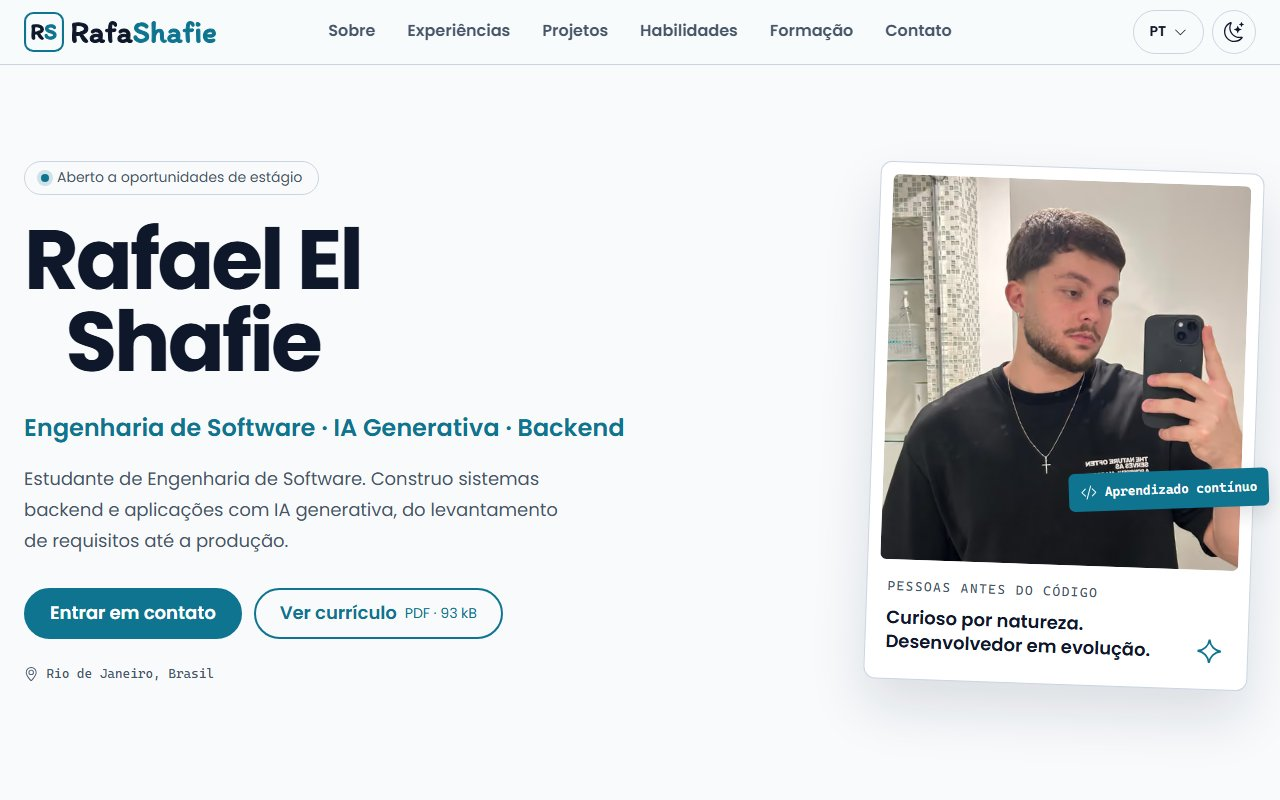
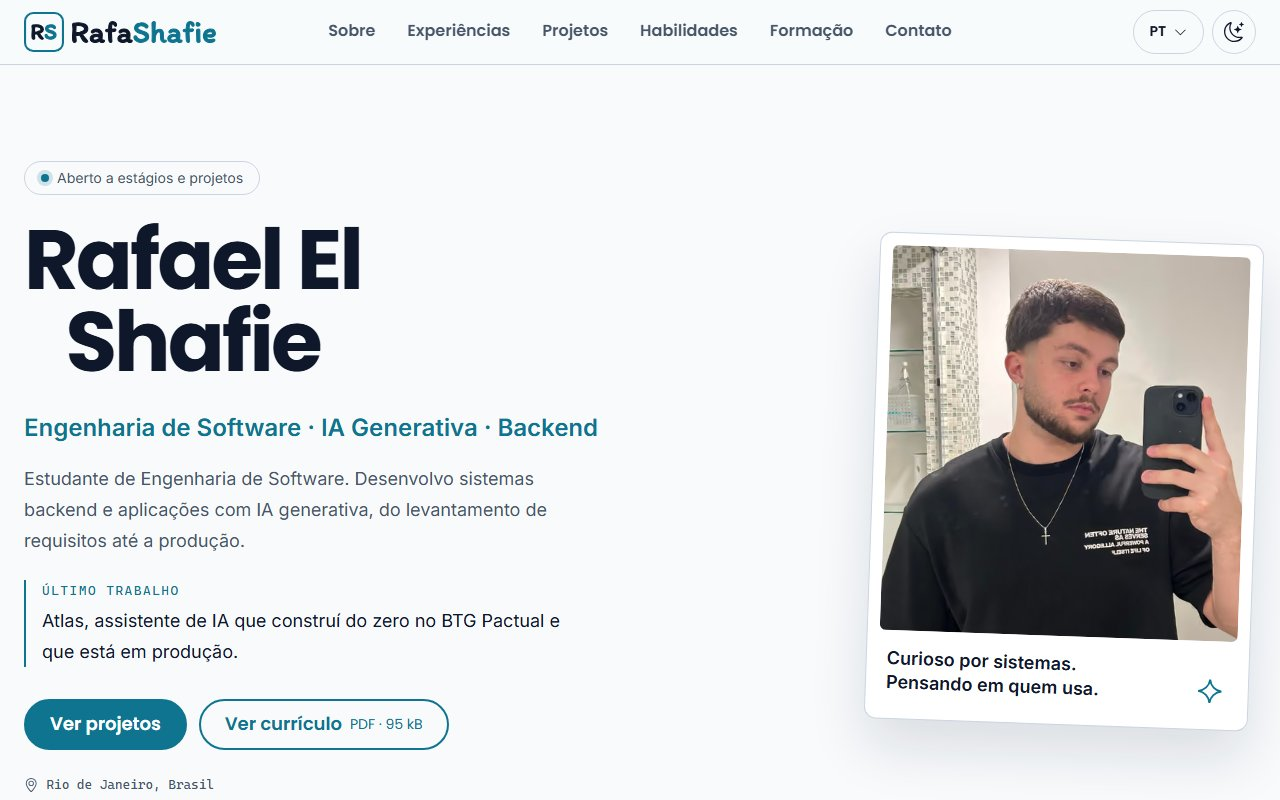
docs(readme): bring the README up to date with phases A to D
Adds what the site offers, the native CSS features and fonts in the stack,
the pages folder in the tree, and decisions on project stages, shareable
dialogs, HTML diagrams, structured data and the 404 page. The progressive
enhancement note matches the new email card, and the screenshots show the
current hero.

diff --git a/README.md b/README.md
@@ -16,6 +16,15 @@ Site pessoal de um estudante de Engenharia de Software focado em **backend e IA 
   <img src="docs/screenshots/mobile-light.jpg" alt="Topo do site no tema claro, celular" width="260" />
 </p>
 
+## O que tem no site
+
+- **Experiências** em acordeão, cada uma com um modal "Explorar a experiência" que conta o problema, as decisões e o que aprendi.
+- **Projetos** com filtros por área (IA, Backend, Dados, Frontend). Os trabalhos principais têm destaque, e cada card mostra o estágio real do projeto.
+- **Modais com resumo no topo** (problema, participação, entrega e resultado) e **diagramas ilustrativos** nos projetos principais.
+- **Link direto para cada modal** (`/#project-atlas`) e links entre a experiência e o projeto correspondente.
+- **Habilidades em abas**, com o contexto em que cada uma foi usada.
+- **Contato:** o cartão de e-mail abre o app de e-mail, e um botão ao lado copia o endereço. O currículo é o do idioma da página.
+
 ## Por que reescrever
 
 O site antigo (HTML e CSS puros, guardado na tag [`v0-legado`](https://github.com/Rafa-Shafie/portfolio/tree/v0-legado)) estava desatualizado e tinha bugs visíveis:
@@ -43,8 +52,9 @@ Os relatórios completos e o método estão em [docs/lighthouse/](docs/lighthous
 
 - **[Astro](https://astro.build/)** com saída estática: zero JavaScript por padrão, um HTML por idioma, content collections e i18n nativos.
 - **TypeScript** nos dicionários e no conteúdo: faltou um campo ou uma tradução, o build quebra.
-- **CSS puro com design tokens**, `<style>` escopado por componente e nenhum framework de CSS.
-- **Scripts pequenos em TS** para menu, idioma, tema, abas, filtros, modais e copiar e-mail. Nada aqui justifica React.
+- **CSS puro com design tokens**, `<style>` escopado por componente e nenhum framework de CSS. Recursos nativos onde eles bastam: `light-dark()`, container queries, `@starting-style` e a View Transitions API.
+- **Fontes self-hosted** pela fonts API do Astro, só o subset latin: Poppins nos títulos e botões, Inter no texto corrido. A marca (RS + RafaShafie) é um SVG gerado a partir da Itim.
+- **Scripts pequenos em TS** para menu, idioma, tema, abas, filtros, modais e e-mail. Nada aqui justifica React.
 - **Playwright + axe + Lighthouse** no GitHub Actions; deploy na **Vercel**, com preview por PR.
 
 ## Como funciona
@@ -75,10 +85,11 @@ flowchart LR
 ```text
 src/
 ├── content/      1 YAML por experiência, projeto e curso, validado por schema
-├── data/         contatos, habilidades, tamanho do CV, regra dos rascunhos
+├── data/         contatos, habilidades, tamanho do CV, regra dos rascunhos, detalhes dos modais
 ├── i18n/         dicionários tipados (pt define o tipo; en e es precisam ter as mesmas chaves)
-├── components/   cabeçalho, seletores de idioma e tema, cartões, modais e seções
-├── layouts/      <head>: SEO, canonical, hreflang, Open Graph por idioma e tema sem flash
+├── components/   cabeçalho, seletores de idioma e tema, cartões, modais, diagramas e seções
+├── layouts/      <head>: SEO, canonical, hreflang, Open Graph, JSON-LD e tema sem flash
+├── pages/        as 3 rotas, a página 404, a imagem Open Graph de cada idioma e o robots.txt
 └── styles/       tokens.css (cores em light-dark()) e global.css
 tests/e2e/        suíte Playwright, que lê os mesmos YAML e dicionários do site
 scripts/          marca em SVG, guarda do CV, Lighthouse com nota mínima, prints deste README
@@ -87,22 +98,26 @@ scripts/          marca em SVG, guarda do CV, Lighthouse com nota mínima, print
 ## Decisões
 
 1. **Conteúdo como dados validados.** Adicionar um projeto é adicionar um YAML. Um campo ou tradução faltando quebra o build, não a produção. Os testes leem os mesmos arquivos, então conteúdo novo não exige mudar teste.
-2. **i18n por rota, gerado no build.** Cada idioma é um HTML próprio, indexável e sem texto trocando depois de carregar, com `hreflang`, canonical e imagem Open Graph por idioma.
-3. **Tema com `light-dark()` e sem flash.** Cada cor é declarada uma vez e o `color-scheme` da raiz escolhe o tema. Sem escolha salva, quem decide é o sistema, mesmo sem JavaScript. Um script síncrono no `<head>` aplica a escolha salva antes da primeira pintura.
-4. **Destaque diferente por tema.** O ciano `#12EFFF` tem 13,4:1 de contraste no escuro, mas ~1,4:1 sobre branco. No claro, o destaque é um ciano escuro (`#0E7490`, 5,1:1).
-5. **Acessibilidade como requisito medido:**
+2. **O card diz o que já existe.** Projeto em planejamento ou em andamento precisa de uma linha de estágio (`stage`), exigida pelo schema, para o objetivo do produto não ser lido como funcionalidade pronta. Cada card mostra no máximo 5 tecnologias; a lista completa fica no modal.
+3. **i18n por rota, gerado no build.** Cada idioma é um HTML próprio, indexável e sem texto trocando depois de carregar, com `hreflang`, canonical e imagem Open Graph por idioma.
+4. **Tema com `light-dark()` e sem flash.** Cada cor é declarada uma vez e o `color-scheme` da raiz escolhe o tema. Sem escolha salva, quem decide é o sistema, mesmo sem JavaScript. Um script síncrono no `<head>` aplica a escolha salva antes da primeira pintura.
+5. **Destaque diferente por tema.** O ciano `#12EFFF` tem 13,4:1 de contraste no escuro, mas ~1,4:1 sobre branco. No claro, o destaque é um ciano escuro (`#0E7490`, 5,1:1).
+6. **Modais que dá para compartilhar.** Abrir um modal põe o id dele no endereço com `history.replaceState`, sem encher o histórico do botão Voltar. Quem chega por esse link já vê o modal aberto. Cada projeto referencia a sua experiência no YAML, e os dois modais ganham links um para o outro.
+7. **Diagramas em HTML e CSS, não em imagem.** O texto é real: o leitor de tela lê, cada idioma tem o seu, e as cores seguem o tema. A regra de confidencialidade vale para eles: o diagrama só mostra o que o texto público já diz, sem prints, código ou números internos.
+8. **Acessibilidade como requisito medido:**
    - regras automáticas da WCAG 2.2 A/AA conferidas pelo axe nos dois temas e nos três idiomas (testes automáticos cobrem parte dos critérios; a avaliação manual com leitor de tela ainda está por fazer);
    - padrões do W3C/APG: abas, disclosure, acordeão nativo e `<dialog>`;
-   - teclado, foco visível e `prefers-reduced-motion`;
+   - teclado, foco visível e `prefers-reduced-motion`, que desliga todas as animações;
    - nenhuma rolagem horizontal de 320px até texto a 200%.
-6. **Melhoria progressiva.** Sem JavaScript, nada quebra:
+9. **Melhoria progressiva.** Sem JavaScript, nada quebra:
    - as abas viram blocos empilhados;
    - os filtros somem e todos os projetos aparecem;
-   - o cartão de e-mail vira um link `mailto`;
+   - o cartão de e-mail continua sendo o link `mailto`; só o botão de copiar some;
    - o tema segue o sistema.
-7. **Um botão por cartão, com a área de clique esticada.** O cartão inteiro é clicável, mas só existe um botão de verdade. Envolver o cartão num botão faria o leitor de tela ler o cartão todo como nome do botão.
-8. **Privacidade como guarda automática.** Os PDFs do currículo passam por uma verificação no `prebuild` que procura telefone em texto, marcadores, metadados e streams comprimidos. Como roda dentro do build, ela barra o deploy da Vercel, que não espera o CI.
-9. **Rascunhos só em preview.** Conteúdo com `draft: true` aparece no `npm run dev` e no preview da Vercel, nunca em produção.
+10. **Um botão por cartão, com a área de clique esticada.** O cartão inteiro é clicável, mas só existe um botão de verdade. Envolver o cartão num botão faria o leitor de tela ler o cartão todo como nome do botão.
+11. **Privacidade como guarda automática.** Os PDFs do currículo passam por uma verificação no `prebuild` que procura telefone em texto, marcadores, metadados e streams comprimidos. Como roda dentro do build, ela barra o deploy da Vercel, que não espera o CI.
+12. **SEO além do básico.** As três páginas têm dados estruturados (`schema.org/Person`, com cargo no idioma e os perfis do LinkedIn e do GitHub). Endereços que não existem caem numa página 404 nos três idiomas, com `noindex` e fora do sitemap.
+13. **Rascunhos só em preview.** Conteúdo com `draft: true` aparece no `npm run dev` e no preview da Vercel, nunca em produção.
 
 ## Rodar localmente
 
